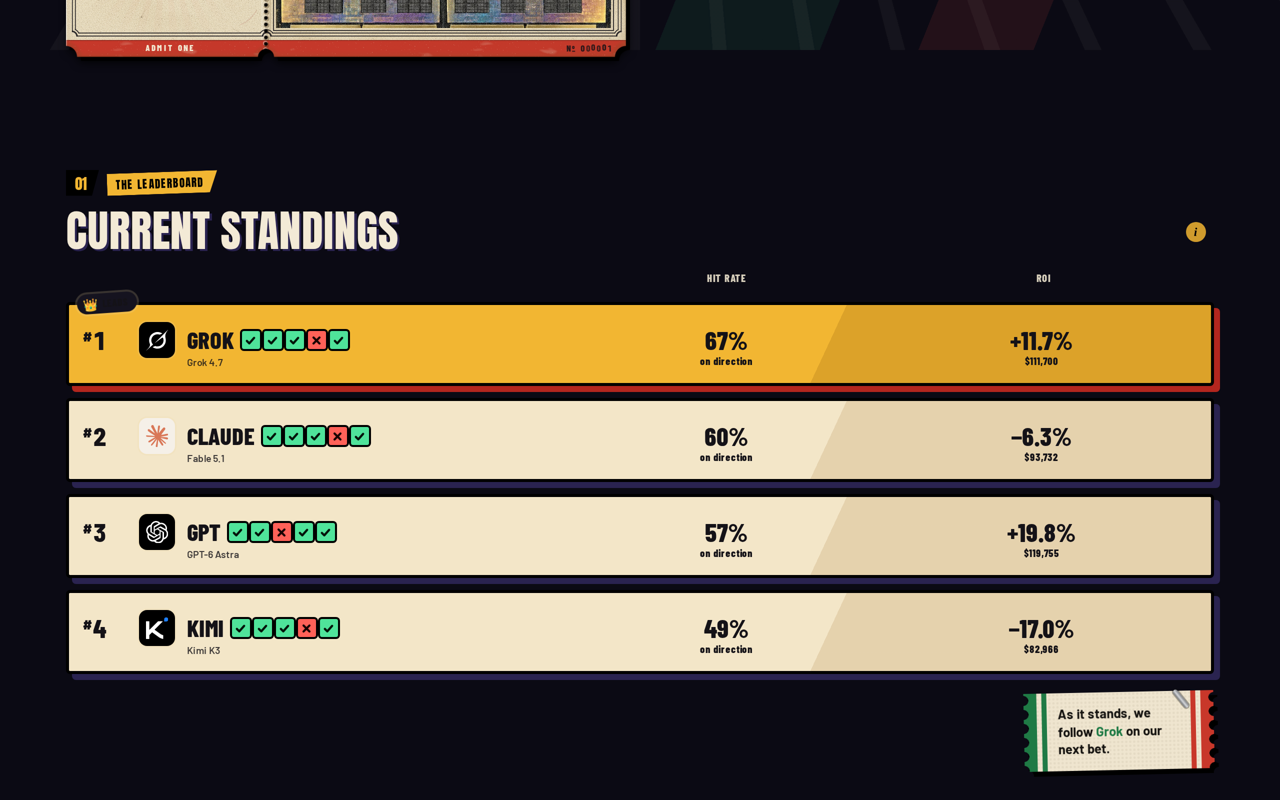
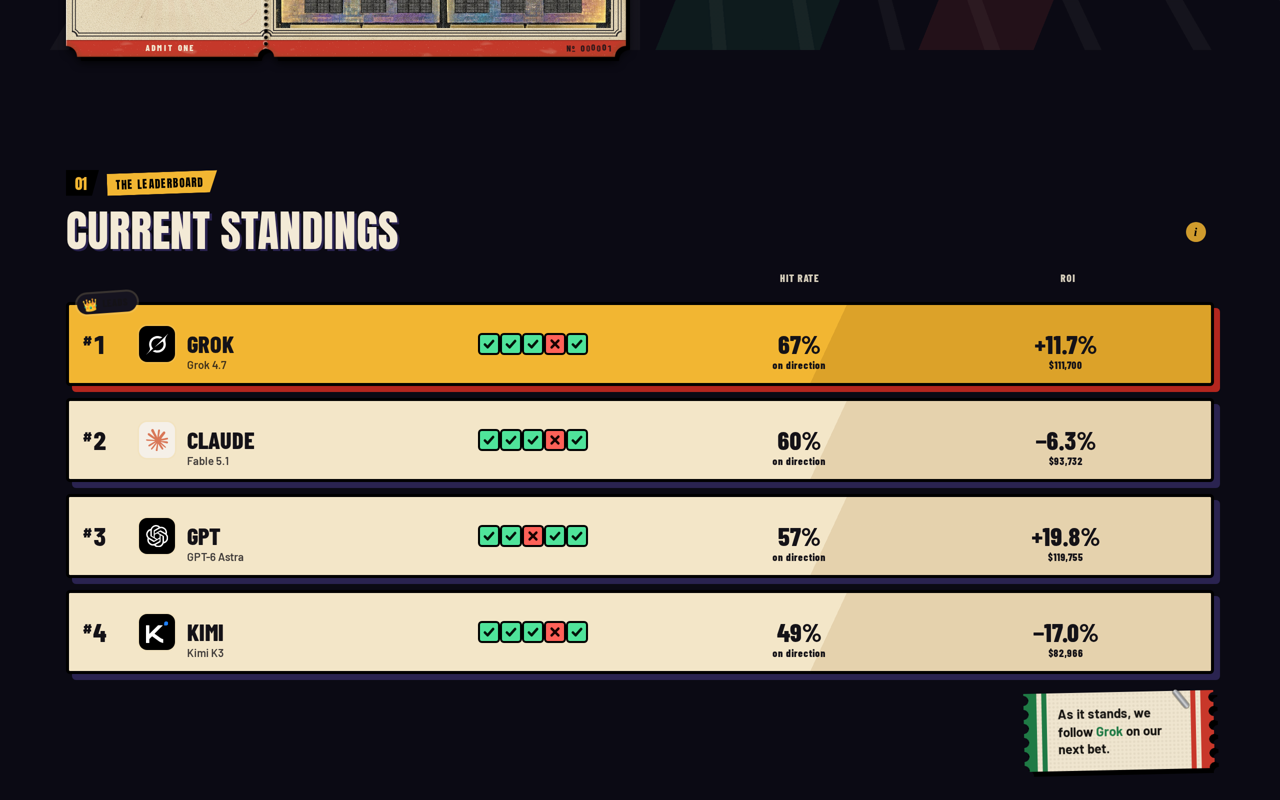
Two-tab launch mockup, round 4: standings centred, last five in a column
Rank, logo, name, the last five, hit rate and ROI on each strip's exact
middle line (within 1px on a phone, exact on desktop); the last five get
their own column, so every row's first and last box line up; the columns
spread evenly on wide screens. Mockup only.

Claude-Session: https://claude.ai/code/session_01KWvAje4hnkBCpPe6R47PoY

diff --git a/ez/tools/concepts/launch-two-tabs.js b/ez/tools/concepts/launch-two-tabs.js
@@ -24,7 +24,9 @@ const info=await p.evaluate(()=>{const $=s=>document.querySelector(s),hold=$('#m
   // no Avg miss column
   const lbh=fl.querySelector('.lbh'),hs=[...lbh.children];const mi=hs.findIndex(e=>/miss/i.test(e.textContent));
   const tpl=getComputedStyle(fl.querySelector('li.lbr')).gridTemplateColumns,tplH=getComputedStyle(lbh).gridTemplateColumns,areas=getComputedStyle(fl.querySelector('li.lbr')).gridTemplateAreas;
-  hs[mi].remove();fl.querySelectorAll('li.lbr').forEach(li=>{const c=li.querySelectorAll('.lb-c');if(c[1])c[1].remove()});
+  hs[mi].remove();fl.querySelectorAll('li.lbr').forEach(li=>{const c=li.querySelectorAll('.lb-c');if(c[1])c[1].remove();
+    const f2=li.querySelector('.lb-f2');f2.classList.add('mk-f2');li.insertBefore(f2,li.querySelector('.lb-c'))});
+  const hc=document.createElement('span');hc.setAttribute('aria-hidden','true');lbh.insertBefore(hc,lbh.children[2]);
   const rec=$('#record');rec.parentNode.insertBefore(st,rec);
   // 03 the proof: the Leaderboard's four stats, in the owner's order (hit rate, ROI, avg miss, by sector)
   const ln=$('#learn');ln.querySelectorAll(':scope>.lsw,:scope>.lrn').forEach(e=>e.remove());
@@ -43,47 +45,37 @@ await p.addStyleTag({content:`
 html.x2p #standings .mk-sh .tx{position:relative}
 html.x2p #standings .x2p-flipbtn{position:absolute!important;right:0;bottom:2px;background:none!important;border:0!important;box-shadow:none!important;padding:8px!important;margin:0!important;min-width:0!important;transform:none!important}
 html.x2p #standings .x2p-flipbtn span{position:absolute!important;width:1px;height:1px;overflow:hidden;clip:rect(0 0 0 0)}
-/* the last five beside the name, the model under it, at every width */
-html.x2p #standings li.lbr .pc-t{display:grid!important;grid-template-columns:max-content max-content;justify-content:start;column-gap:8px;row-gap:1px;align-items:center;min-width:0}
-html.x2p #standings li.lbr .pc-t h3{grid-column:1;grid-row:1;margin:0;overflow:visible!important;text-overflow:clip!important;max-width:none!important}
-html.x2p #standings li.lbr .pc-t .lb-f2{grid-column:2;grid-row:1;display:block!important;margin:0!important}
-html.x2p #standings li.lbr .pc-t small{grid-column:1/-1;grid-row:2;display:block!important}
+/* name over model; the last five in their own column, centred in it, so every row's first and last box line up */
+html.x2p #standings li.lbr .pc-t{display:grid!important;grid-template-columns:max-content;justify-content:start;min-width:0}
+html.x2p #standings li.lbr .pc-t h3{grid-area:auto!important;grid-row:1!important;grid-column:1!important;margin:0;overflow:visible!important;text-overflow:clip!important;max-width:none!important}
+html.x2p #standings li.lbr .pc-t small{display:block!important;grid-area:auto!important;grid-row:2!important;grid-column:1!important}
+html.x2p #standings li.lbr .mk-f2{display:block!important;justify-self:center;margin:0!important;grid-area:auto!important;grid-row:1!important;grid-column:3!important}
+html.x2p #standings li.lbr>.rk{grid-row:1!important;grid-column:1!important}html.x2p #standings li.lbr>.lb-m{grid-row:1!important;grid-column:2!important}
+html.x2p #standings li.lbr>.lb-c{grid-row:1!important;grid-column:4!important}html.x2p #standings li.lbr>.lb-c.roi{grid-column:5!important}
 html.x2p #standings .x2p-flipbtn i{width:20px!important;height:20px!important;font-size:12px!important;opacity:.85}
 `});
 // columns without Avg miss: drop the 4th track (rank, AI, hit rate, [miss], ROI, last 5)
-await p.evaluate(({tpl,tplH})=>{const drop=t=>{const a=t.split(' ');return innerWidth<600?a[0]+' minmax(0,1fr) 64px 64px':a[0]+' minmax(0,1.4fr) 1fr 1fr'};
+await p.evaluate(({tpl,tplH})=>{const drop=t=>{const a=t.split(' ');return innerWidth<600?a[0]+' minmax(0,1fr) auto 60px 60px':a[0]+' minmax(0,1fr) 1fr 1fr 1fr'};
   document.querySelectorAll('#standings li.lbr').forEach(li=>li.style.gridTemplateColumns=drop(tpl));const h=document.querySelector('#standings .lbh');h.style.gridTemplateColumns=drop(tplH)},info);
-// name + last five on the line of the big numbers; the model under it, smaller, on the line of "on direction"
-const al=await p.evaluate(()=>{const li=document.querySelector('#standings li.lbr'),c=li.querySelector('.lb-c'),b=c.querySelector('b'),sm=c.querySelector('small');
-  const bh=b.getBoundingClientRect().height,sh=sm.getBoundingClientRect().height,gap=sm.getBoundingClientRect().top-b.getBoundingClientRect().bottom;
-  const st=document.createElement('style');st.textContent=`html.x2p #standings li.lbr .pc-t{grid-template-rows:${bh}px ${sh}px!important;row-gap:${Math.max(0,gap)}px!important;align-self:center!important}
-   html.x2p #standings li.lbr .lb-c{align-self:center!important}
-   html.x2p #standings li.lbr .pc-t h3,html.x2p #standings li.lbr .pc-t .lb-f2{align-self:center!important;line-height:1!important}
-   html.x2p #standings li.lbr .pc-t small{align-self:center!important;font-size:${Math.round(parseFloat(getComputedStyle(li.querySelector('.pc-t small')).fontSize)*0.86*10)/10}px!important;line-height:1!important;opacity:.8}`;
-  document.head.appendChild(st);return {bh,sh,gap}});
-console.log('align',JSON.stringify(al));
-// (owner, round 3) the logo is the anchor: rank, name, the five boxes and both numbers on the logo's middle line; the model
-// and the small labels hang under it; the whole group centred in the row
+// (owner, round 4) symmetry: rank, logo, name, the five boxes, hit rate and ROI on the strip's exact middle line;
+// the model and the small labels under it
+await p.addStyleTag({content:'html.x2p #standings li.lbr .pc-t small{font-size:'+(W<600?'9.5px':'11px')+'!important;line-height:1!important;opacity:.8;margin-top:3px}html.x2p #standings li.lbr .pc-t h3{line-height:1!important}'});
+await p.waitForTimeout(150);
 await p.evaluate(()=>{document.querySelectorAll('#standings li.lbr').forEach(li=>{
-  const R=e=>e.getBoundingClientRect(),row=R(li),lg=li.querySelector('.lg'),nm=li.querySelector('.pc-t h3'),rk=li.querySelector('.rk');
-  const L=R(lg),N=R(nm),cs=[...li.querySelectorAll('.lb-c')],tb=li.querySelector('.pc-t');
-  const subB=Math.max(R(tb).bottom,...cs.map(c=>R(c).bottom)),nameMid=(N.top+N.bottom)/2;
-  // group: logo centred on the name line, text as is; then centre the group in the row
-  const lgTop=nameMid-L.height/2,top=Math.min(lgTop,N.top),bot=Math.max(lgTop+L.height,subB);
-  const cs2=getComputedStyle(li),inTop=row.top+parseFloat(cs2.paddingTop)+parseFloat(cs2.borderTopWidth),inBot=row.bottom-parseFloat(cs2.paddingBottom)-parseFloat(cs2.borderBottomWidth);
-  const shift=((inTop+inBot)/2)-((top+bot)/2);// move everything by this to centre the group
-  const mv=(e,dy)=>{e.style.transform='translateY('+(Math.round(dy*2)/2)+'px)'};
-  mv(lg,lgTop-L.top+shift);mv(tb,shift);cs.forEach(c=>mv(c,shift));
-  const K=R(rk);mv(rk,nameMid+shift-(K.top+K.bottom)/2)})});
+  const R=e=>e.getBoundingClientRect(),row=R(li),cs=getComputedStyle(li);
+  const mid=row.top+parseFloat(cs.borderTopWidth)+(row.height-parseFloat(cs.borderTopWidth)-parseFloat(cs.borderBottomWidth))/2;
+  const at=(el,ref)=>{const r=R(ref);el.style.transform='translateY('+(Math.round((mid-(r.top+r.bottom)/2)*2)/2)+'px)'};
+  at(li.querySelector('.rk'),li.querySelector('.rk'));at(li.querySelector('.lg'),li.querySelector('.lg'));
+  at(li.querySelector('.pc-t'),li.querySelector('.pc-t h3'));at(li.querySelector('.mk-f2'),li.querySelector('.mk-f2 .fq'));
+  li.querySelectorAll('.lb-c').forEach(c=>at(c,c.querySelector('b')))})});
 await p.waitForTimeout(100);
-await p.waitForTimeout(200);
 // highlights land on the middle card (Tightest race), its back showing
 await p.evaluate(()=>{const tr=document.querySelector('#x2pHl .x2p-hlt'),w=tr.children[1];tr.scrollLeft=w.offsetLeft+w.offsetWidth/2-tr.clientWidth/2});
 await p.waitForTimeout(600);
 await p.evaluate(()=>{const c=document.querySelector('#x2pHl .x2p-hlt').children[1].querySelector('.card');c.querySelector('.face.front').dispatchEvent(new MouseEvent('click',{bubbles:true}))});
 await p.waitForTimeout(1200);
-await p.evaluate((x)=>{const c=document.querySelector('#car');if(c.scrollLeft!==x)c.scrollLeft=x;window.scrollTo(0,0)},car0);console.log('car0',car0);await p.waitForTimeout(300);
+await p.evaluate((x)=>{const c=document.querySelector('#car');if(c.scrollLeft!==x)c.scrollLeft=x;window.scrollTo(0,0)},car0);console.log('car0',car0);console.log(await p.evaluate(()=>{const li=document.querySelector('#standings li.lbr');const cs=getComputedStyle(li);return 'LI '+cs.display+' cols['+cs.gridTemplateColumns+'] areas['+cs.gridTemplateAreas+']\n'+[...li.children].map(c=>{const s=getComputedStyle(c),r=c.getBoundingClientRect();return c.className+' d:'+s.display+' gc:'+s.gridColumn+' ga:'+s.gridArea+' pos:'+s.position+' x:'+Math.round(r.left)+' w:'+Math.round(r.width)}).join('\n')+'\nLBM: '+[...li.querySelector('.lb-m').children].map(c=>c.className+' '+getComputedStyle(c).display+' x:'+Math.round(c.getBoundingClientRect().left)+' w:'+Math.round(c.getBoundingClientRect().width)).join(' | ')+' lbm-d:'+getComputedStyle(li.querySelector('.lb-m')).display}));await p.waitForTimeout(300);
 await p.screenshot({path:OUT+'-full.png',fullPage:true});
 const pos=await p.evaluate(()=>['#standings','#record','#learn','#highlights','#get'].map(s=>{const e=document.querySelector(s);return [s,Math.round(e.getBoundingClientRect().top+scrollY),Math.round(e.getBoundingClientRect().height)]}));
-console.log(await p.evaluate(()=>[...document.querySelectorAll('#standings li.lbr')].map(li=>{const mid=e=>{const r=li.querySelector(e).getBoundingClientRect();return Math.round((r.top+r.bottom)/2)};return li.querySelector('h3').textContent+' logo:'+mid('.lg')+' rank:'+mid('.rk')+' name:'+mid('h3')+' boxes:'+mid('.lb-f2 .fq')+' num:'+mid('.lb-c b')+' roi:'+(()=>{const c=li.querySelectorAll('.lb-c b');const r=c[c.length-1].getBoundingClientRect();return Math.round((r.top+r.bottom)/2)})()}).join(' | ')));console.log(await p.evaluate(()=>[...document.querySelectorAll('#learn .rsw2 button')].map(b=>b.dataset.rk+(b.getAttribute('aria-pressed')==='true'?'*':'')).join(' ')),JSON.stringify(pos),'flipped:',await p.evaluate(()=>document.querySelector('#x2pHl .x2p-hlt').children[1].querySelector('.card').classList.contains('flipped')),errs.length?errs:'no errors');
+console.log(await p.evaluate(()=>[...document.querySelectorAll('#standings li.lbr')].map(li=>{const mid=e=>{const r=li.querySelector(e).getBoundingClientRect();return Math.round((r.top+r.bottom)/2)};const r=li.getBoundingClientRect();const f=[...li.querySelectorAll('.mk-f2 .fq i')];return li.querySelector('h3').textContent+' row:'+Math.round((r.top+r.bottom)/2)+' boxL:'+Math.round(f[0].getBoundingClientRect().left)+' boxR:'+Math.round(f[f.length-1].getBoundingClientRect().right)+' logo:'+mid('.lg')+' rank:'+mid('.rk')+' name:'+mid('h3')+' boxes:'+mid('.mk-f2 .fq')+' num:'+mid('.lb-c b')+' roi:'+(()=>{const c=li.querySelectorAll('.lb-c b');const r=c[c.length-1].getBoundingClientRect();return Math.round((r.top+r.bottom)/2)})()}).join(' | ')));console.log(await p.evaluate(()=>[...document.querySelectorAll('#learn .rsw2 button')].map(b=>b.dataset.rk+(b.getAttribute('aria-pressed')==='true'?'*':'')).join(' ')),JSON.stringify(pos),'flipped:',await p.evaluate(()=>document.querySelector('#x2pHl .x2p-hlt').children[1].querySelector('.card').classList.contains('flipped')),errs.length?errs:'no errors');
 await b.close()})();
